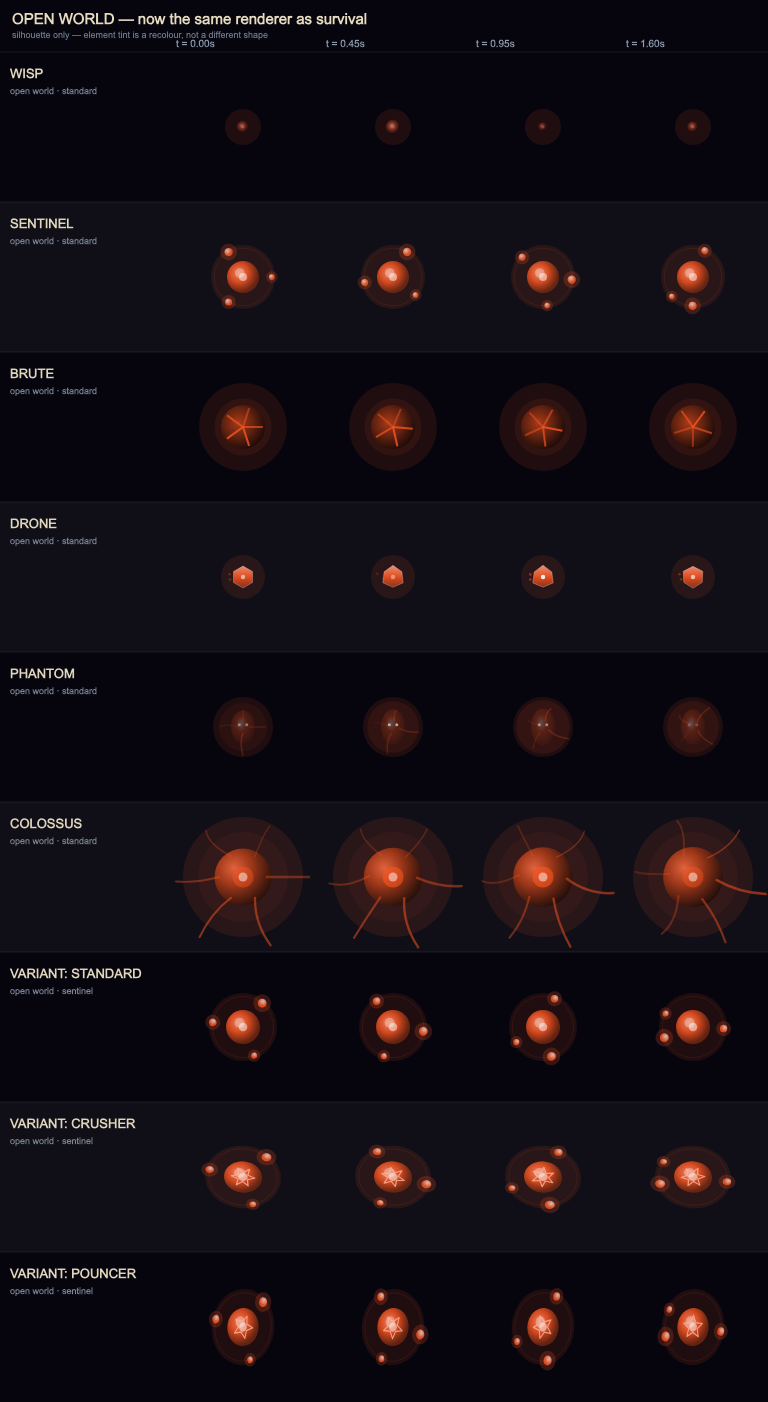
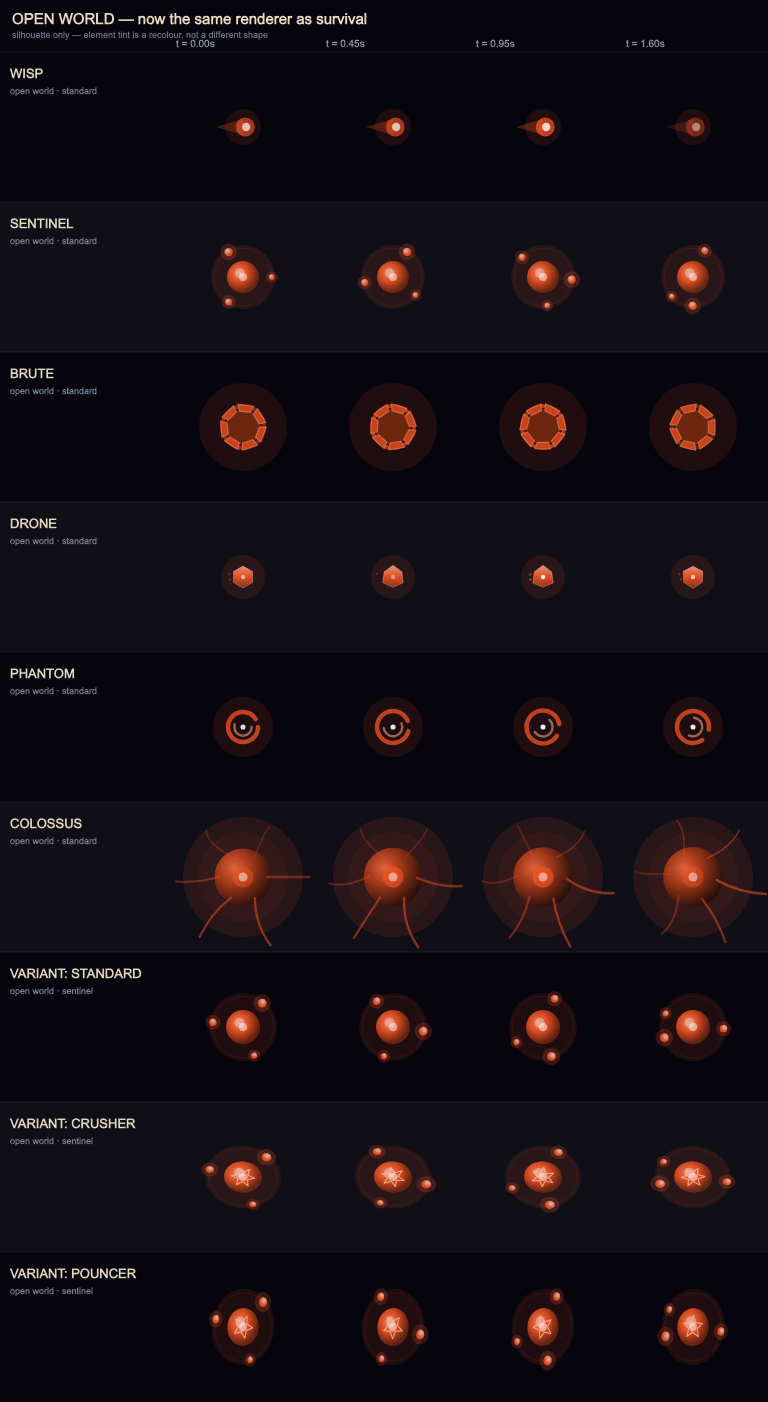
Polish the three enemy bodies that did not read
Five of the six bodies were circles separated by size and alpha — the two
weakest signals available, since distance changes size and bright backgrounds
kill alpha. These are the three that failed hardest.

WISP was a low-contrast radial circle with no direction: nearly invisible
against space, which is a dodging problem rather than an aesthetic one, and it
is the body that arrives thirty at a time in a swarm. Now a comet mote — a
tapered teardrop along its travel vector with a bright core, so you can see it
and see where it is going.

PHANTOM was a dimmed brute: same silhouette, lower alpha. So it was both the
least visible enemy in the game AND indistinguishable from the tier above it.
Now hollow — two broken arcs with a seam that drifts, plus a single bright pip
for where the mass is. Ghostliness as a form rather than as transparency.

BRUTE was a radial-gradient sphere with five cracks radiating from its centre,
which renders as an asterisk laid over a ball — the same motif the Let meteors
had removed. Now seven armour plates around a dark core with element glow
leaking through the seams.

Sentinel, drone and colossus were already distinct and are untouched.

diff --git a/lib/games/cosmic/cosmic_enemy_vfx.dart b/lib/games/cosmic/cosmic_enemy_vfx.dart
@@ -342,29 +342,42 @@ void drawEnemy({
 
   switch (enemy.tier) {
     case EnemyTier.wisp:
-      final flicker = 0.7 + 0.3 * sin(elapsed * 6 + enemy.angle * 5);
-      final wobble = r * flicker;
-      canvas.drawCircle(
-        Offset.zero,
-        wobble,
-        Paint()
-          ..shader = ui.Gradient.radial(
-            const Offset(-1, -1),
-            wobble,
-            [
-              Colors.white.withValues(alpha: 0.7 * flicker),
-              flashColor.withValues(alpha: 0.5 * flicker),
-              flashColor.withValues(alpha: 0.0),
-            ],
-            [0.0, 0.5, 1.0],
-          ),
+      // A comet mote, not a dim dot. The old wisp was a low-contrast radial
+      // circle: near-invisible against space (a dodging problem, not just an
+      // aesthetic one) and with no indication of where it was going — which
+      // matters most for the one body that arrives 30 at a time.
+      final flicker = 0.72 + 0.28 * sin(elapsed * 7 + enemy.angle * 5);
+      final dir = Offset(cos(enemy.angle), sin(enemy.angle));
+      final perp = Offset(-dir.dy, dir.dx);
+      final tail = -dir * (r * 3.0);
+      canvas.drawPath(
+        Path()
+          ..moveTo(perp.dx * r * 0.85, perp.dy * r * 0.85)
+          ..quadraticBezierTo(
+            perp.dx * r * 0.5 + tail.dx * 0.45,
+            perp.dy * r * 0.5 + tail.dy * 0.45,
+            tail.dx,
+            tail.dy,
+          )
+          ..quadraticBezierTo(
+            -perp.dx * r * 0.5 + tail.dx * 0.45,
+            -perp.dy * r * 0.5 + tail.dy * 0.45,
+            -perp.dx * r * 0.85,
+            -perp.dy * r * 0.85,
+          )
+          ..close(),
+        Paint()..color = flashColor.withValues(alpha: 0.34 * flicker),
       );
       canvas.drawCircle(
-        Offset.zero,
-        r * 0.15,
+        dir * r * 0.25,
+        r * 1.05,
+        Paint()..color = flashColor.withValues(alpha: 0.85 * flicker),
+      );
+      canvas.drawCircle(
+        dir * r * 0.35,
+        r * 0.46,
         Paint()
-          ..color = Colors.red.withValues(alpha: 0.9 * flicker)
-          ..maskFilter = null,
+          ..color = const Color(0xFFFFFFFF).withValues(alpha: 0.95 * flicker),
       );
 
     case EnemyTier.sentinel:
@@ -497,127 +510,89 @@ void drawEnemy({
       }
 
     case EnemyTier.phantom:
+      // Hollow: you see space through it. The old phantom was a dimmed brute —
+      // same silhouette, lower alpha — which made it both the least visible
+      // enemy in the game and indistinguishable from the tier above it.
       final ghostPhase = elapsed * 1.5 + enemy.angle * 2;
-      final breathe = 1.0 + 0.12 * sin(ghostPhase);
-      canvas.drawCircle(
-        Offset.zero,
-        r * 1.6 * breathe,
-        Paint()
-          ..color = eColor.withValues(alpha: 0.06 + 0.03 * sin(ghostPhase))
-          ..maskFilter = null,
+      final breathe = 1.0 + 0.10 * sin(ghostPhase);
+      final gap = 0.55 + 0.25 * sin(ghostPhase * 0.7);
+      final ringPaint = Paint()
+        ..style = PaintingStyle.stroke
+        ..strokeCap = StrokeCap.round
+        ..strokeWidth = r * 0.30
+        ..color = eColor.withValues(alpha: 0.72);
+      // Two broken arcs leave the body open at the seams.
+      canvas.drawArc(
+        Rect.fromCircle(center: Offset.zero, radius: r * breathe),
+        ghostPhase * 0.4,
+        pi * 2 - gap,
+        false,
+        ringPaint,
       );
-      canvas.save();
-      canvas.scale(0.8, 1.1 * breathe);
-      canvas.drawCircle(
-        Offset.zero,
-        r,
-        Paint()
-          ..shader = ui.Gradient.radial(
-            Offset(-r * 0.15, -r * 0.2),
-            r * 1.2,
-            [
-              Colors.white.withValues(alpha: 0.25),
-              eColor.withValues(alpha: 0.18),
-              eColor.withValues(alpha: 0.04),
-            ],
-            [0.0, 0.4, 1.0],
+      canvas.drawArc(
+        Rect.fromCircle(center: Offset.zero, radius: r * 0.58 * breathe),
+        -ghostPhase * 0.6,
+        pi * 1.1,
+        false,
+        ringPaint
+          ..strokeWidth = r * 0.16
+          ..color = Color.lerp(eColor, Colors.white, 0.5)!.withValues(
+            alpha: 0.55,
           ),
       );
-      canvas.restore();
-      for (var t = 0; t < 4; t++) {
-        final tAngle = t * pi / 2 + ghostPhase * 0.3;
-        final tLen = r * (1.5 + 0.4 * sin(ghostPhase + t * 1.5));
-        final tendril = Path()
-          ..moveTo(cos(tAngle) * r * 0.4, sin(tAngle) * r * 0.4);
-        final ctrlX = cos(tAngle + 0.3 * sin(ghostPhase + t)) * r * 1.0;
-        final ctrlY = sin(tAngle + 0.3 * sin(ghostPhase + t)) * r * 1.0;
-        tendril.quadraticBezierTo(
-          ctrlX,
-          ctrlY,
-          cos(tAngle) * tLen,
-          sin(tAngle) * tLen,
-        );
-        canvas.drawPath(
-          tendril,
-          Paint()
-            ..color = eColor.withValues(
-              alpha: 0.15 + 0.08 * sin(ghostPhase + t * 2),
-            )
-            ..strokeWidth = 1.5
-            ..style = PaintingStyle.stroke
-            ..maskFilter = null,
-        );
-      }
-      final eyeSpread = r * 0.25;
-      final eyeY = -r * 0.15;
-      for (final ex in [-eyeSpread, eyeSpread]) {
-        canvas.drawCircle(
-          Offset(ex, eyeY),
-          r * 0.1,
-          Paint()
-            ..color = Colors.white.withValues(
-              alpha: 0.4 + 0.2 * sin(ghostPhase * 2),
-            )
-            ..maskFilter = null,
-        );
-      }
+      // A single bright pip marks where the mass actually is.
+      canvas.drawCircle(
+        Offset.zero,
+        r * 0.17,
+        Paint()
+          ..color = const Color(0xFFFFFFFF).withValues(alpha: 0.85 * breathe),
+      );
 
     case EnemyTier.brute:
+      // Armour plates around a dark core. The old brute was a radial-gradient
+      // sphere with five cracks radiating from its centre — which renders as
+      // an asterisk laid over a ball, the same motif the Let meteors had to
+      // have removed.
+      const plates = 7;
+      final spin = elapsed * 0.35;
+      final core = Color.lerp(flashColor, Colors.black, 0.55)!;
       canvas.drawCircle(
         Offset.zero,
-        r,
-        Paint()
-          ..shader = ui.Gradient.radial(
-            Offset(-r * 0.2, -r * 0.2),
-            r * 1.3,
-            [
-              Color.lerp(flashColor, Colors.black, 0.3)!.withValues(alpha: 0.9),
-              Color.lerp(flashColor, Colors.black, 0.6)!.withValues(alpha: 0.8),
-              Colors.black.withValues(alpha: 0.7),
-            ],
-            [0.0, 0.5, 1.0],
-          ),
+        r * 0.82,
+        Paint()..color = core.withValues(alpha: 0.95),
       );
-      for (var crack = 0; crack < 5; crack++) {
-        final ca = crack * pi * 2 / 5 + elapsed * 0.2;
-        final crackPath = Path()
-          ..moveTo(0, 0)
-          ..lineTo(cos(ca) * r * 0.9, sin(ca) * r * 0.9);
-        canvas.drawPath(
-          crackPath,
-          Paint()
-            ..color = eColor.withValues(
-              alpha: 0.6 + 0.2 * sin(elapsed * 2 + crack),
-            )
-            ..strokeWidth = 2.0
-            ..style = PaintingStyle.stroke
-            ..maskFilter = null,
-        );
-      }
+      // Element glow leaks through the seams between plates.
       canvas.drawCircle(
         Offset.zero,
-        r * 1.3,
+        r * 0.95,
         Paint()
-          ..color = eColor.withValues(alpha: 0.08)
-          ..maskFilter = null,
+          ..style = PaintingStyle.stroke
+          ..strokeWidth = r * 0.18
+          ..color = eColor.withValues(
+            alpha: 0.45 + 0.2 * sin(elapsed * 2.2),
+          ),
       );
-      final bruteHpFrac = enemy.hpFraction;
-      if (bruteHpFrac < 1.0) {
-        final barW = r * 2.5;
-        canvas.drawRRect(
-          RRect.fromRectAndRadius(
-            Rect.fromCenter(center: Offset(0, -r - 8), width: barW, height: 3),
-            const Radius.circular(1.5),
-          ),
-          Paint()..color = Colors.black.withValues(alpha: 0.6),
+      final plate = Paint()
+        ..color = Color.lerp(flashColor, Colors.black, 0.22)!;
+      final plateEdge = Paint()
+        ..style = PaintingStyle.stroke
+        ..strokeWidth = 1.1
+        ..color = Color.lerp(eColor, Colors.white, 0.35)!.withValues(
+          alpha: 0.5,
         );
-        canvas.drawRRect(
-          RRect.fromRectAndRadius(
-            Rect.fromLTWH(-barW / 2, -r - 8 - 1.5, barW * bruteHpFrac, 3),
-            const Radius.circular(1.5),
-          ),
-          Paint()..color = Color.lerp(Colors.red, eColor, bruteHpFrac)!,
-        );
+      for (var i = 0; i < plates; i++) {
+        final a0 = spin + i * (pi * 2 / plates);
+        final a1 = a0 + (pi * 2 / plates) * 0.78;
+        final inner = r * 0.74;
+        final outer = r * 1.06;
+        final path = Path()
+          ..moveTo(cos(a0) * inner, sin(a0) * inner)
+          ..lineTo(cos(a0) * outer, sin(a0) * outer)
+          ..lineTo(cos(a1) * outer, sin(a1) * outer)
+          ..lineTo(cos(a1) * inner, sin(a1) * inner)
+          ..close();
+        canvas.drawPath(path, plate);
+        canvas.drawPath(path, plateEdge);
       }
 
     case EnemyTier.colossus:
